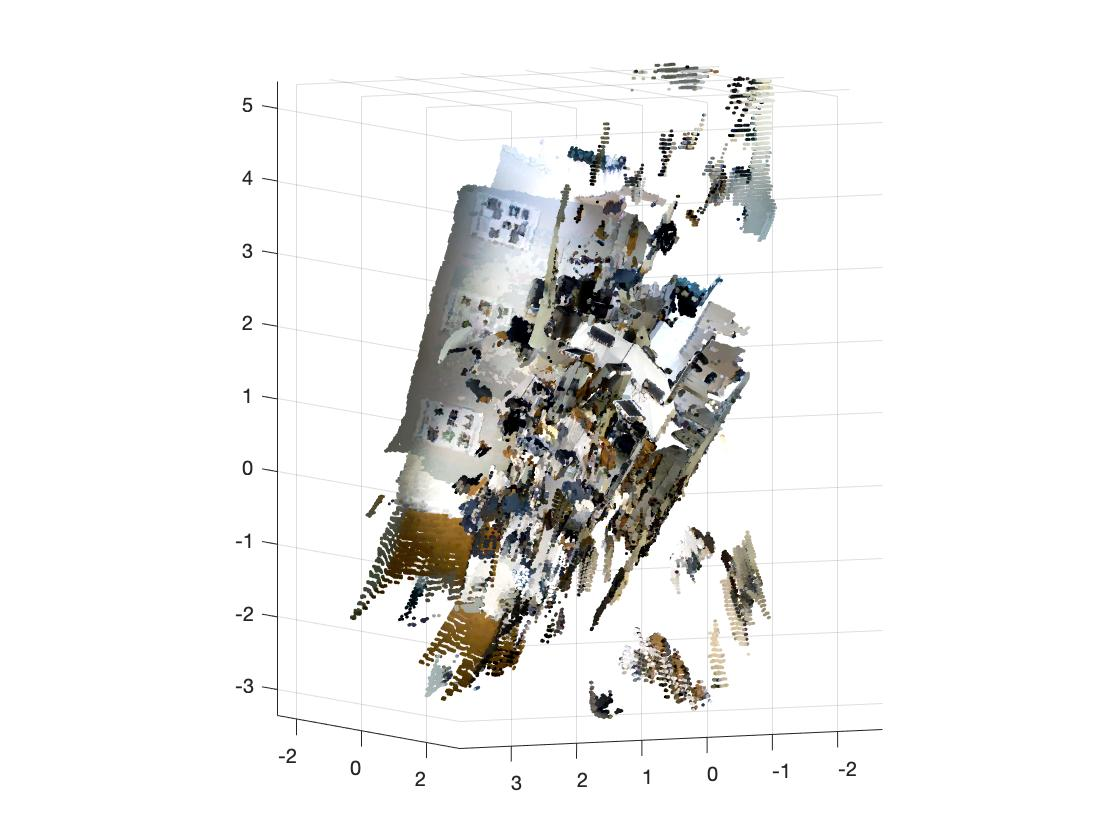
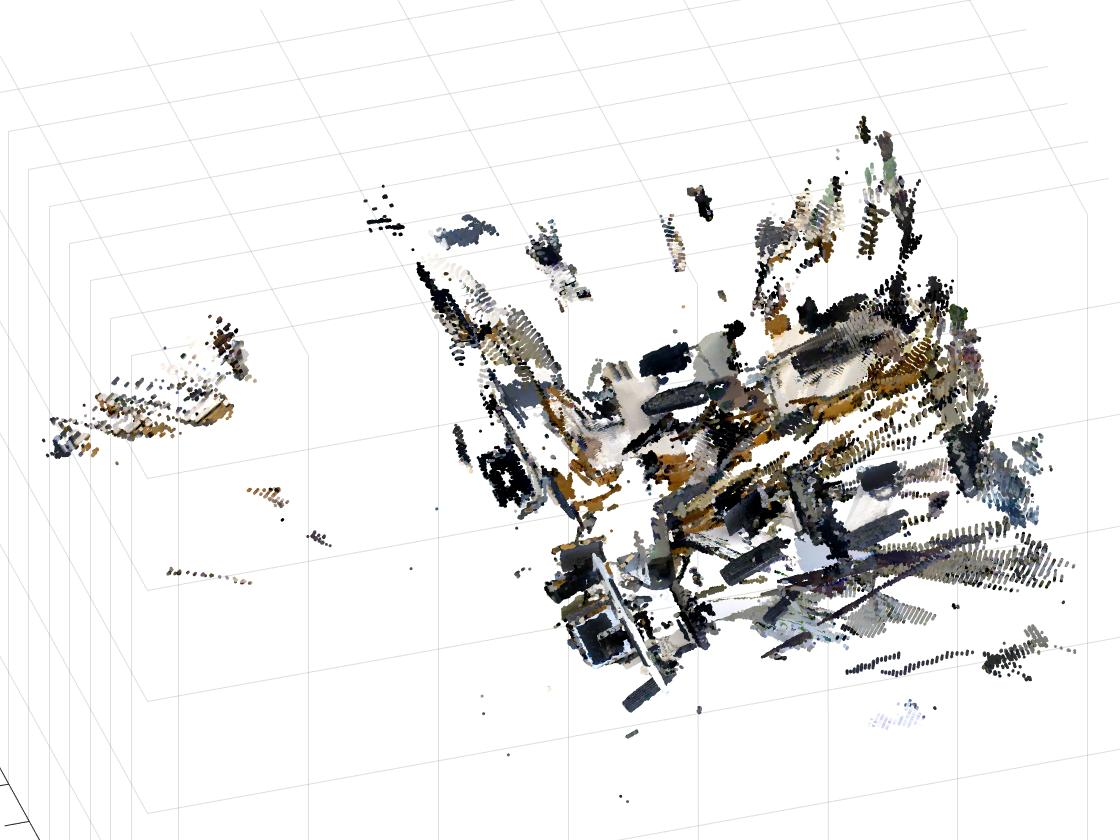
Latest update

diff --git a/Code/proj2_22dez.m b/Code/proj2_22dez.m
@@ -4,19 +4,23 @@ run('/Users/goncalopereira/Documents/MATLAB/vlfeat-0.9.21/toolbox/vl_setup')
 
 cam_params = load('cam_params.mat');
 
-%leimgs;
+imglistrgb = {'Datasets/room1/rgb_0000.jpg','Datasets/room1/rgb_0001.jpg','Datasets/room1/rgb_0002.jpg','Datasets/room1/rgb_0003.jpg','Datasets/room1/rgb_0004.jpg','Datasets/room1/rgb_0005.jpg','Datasets/room1/rgb_0006.jpg'};
+imglistdepth = {'Datasets/room1/depth_0000.mat','Datasets/room1/depth_0001.mat','Datasets/room1/depth_0002.mat','Datasets/room1/depth_0003.mat','Datasets/room1/depth_0004.mat','Datasets/room1/depth_0005.mat','Datasets/room1/depth_0006.mat'};
+%imglistrgb = {'Datasets/labpiv/rgb_image_1.png','Datasets/labpiv/rgb_image_2.png','Datasets/labpiv/rgb_image_3.png','Datasets/labpiv/rgb_image_4.png','Datasets/labpiv/rgb_image_5.png','Datasets/labpiv/rgb_image_6.png', ...
+    %           'Datasets/labpiv/rgb_image_7.png','Datasets/labpiv/rgb_image_8.png','Datasets/labpiv/rgb_image_9.png','Datasets/labpiv/rgb_image_10.png','Datasets/labpiv/rgb_image_11.png','Datasets/labpiv/rgb_image_12.png', ...
+     %          'Datasets/labpiv/rgb_image_12.png','Datasets/labpiv/rgb_image_13.png','Datasets/labpiv/rgb_image_14.png','Datasets/labpiv/rgb_image_15.png','Datasets/labpiv/rgb_image_16.png','Datasets/labpiv/rgb_image_17.png', ...
+     %         'Datasets/labpiv/rgb_image_18.png','Datasets/labpiv/rgb_image_19.png','Datasets/labpiv/rgb_image_20.png','Datasets/labpiv/rgb_image_21.png','Datasets/labpiv/rgb_image_22.png','Datasets/labpiv/rgb_image_23.png'};
 
+%imglistdepth = {'Datasets/labpiv/depth_1.mat','Datasets/labpiv/depth_2.mat','Datasets/labpiv/depth_3.mat','Datasets/labpiv/depth_4.mat','Datasets/labpiv/depth_5.mat','Datasets/labpiv/depth_6.mat', ...
+         %      'Datasets/labpiv/depth_7.mat','Datasets/labpiv/depth_8.mat','Datasets/labpiv/depth_9.mat','Datasets/labpiv/depth_10.mat','Datasets/labpiv/depth_11.mat','Datasets/labpiv/depth_12.mat', ...
+           %    'Datasets/labpiv/depth_12.mat','Datasets/labpiv/depth_13.mat','Datasets/labpiv/depth_14.mat','Datasets/labpiv/depth_15.mat','Datasets/labpiv/depth_16.mat','Datasets/labpiv/depth_17.mat', ...
+          %     'Datasets/labpiv/depth_18.mat','Datasets/labpiv/depth_19.mat','Datasets/labpiv/depth_20.mat','Datasets/labpiv/depth_21.mat','Datasets/labpiv/depth_22.mat','Datasets/labpiv/depth_23.mat'};
 
-imglistrgb = {'Datasets/labpiv/rgb_image_1.png','Datasets/labpiv/rgb_image_2.png','Datasets/labpiv/rgb_image_3.png','Datasets/labpiv/rgb_image_4.png','Datasets/labpiv/rgb_image_5.png','Datasets/labpiv/rgb_image_6.png', ...
-              'Datasets/labpiv/rgb_image_7.png','Datasets/labpiv/rgb_image_8.png','Datasets/labpiv/rgb_image_9.png','Datasets/labpiv/rgb_image_10.png','Datasets/labpiv/rgb_image_11.png','Datasets/labpiv/rgb_image_12.png', ...
-              'Datasets/labpiv/rgb_image_12.png','Datasets/labpiv/rgb_image_13.png','Datasets/labpiv/rgb_image_14.png','Datasets/labpiv/rgb_image_15.png','Datasets/labpiv/rgb_image_16.png','Datasets/labpiv/rgb_image_17.png', ...
-              'Datasets/labpiv/rgb_image_18.png','Datasets/labpiv/rgb_image_19.png','Datasets/labpiv/rgb_image_20.png','Datasets/labpiv/rgb_image_21.png','Datasets/labpiv/rgb_image_22.png','Datasets/labpiv/rgb_image_23.png'};
+%imglistrgb = {'Datasets/board1/rgb_0000.jpg','Datasets/board1/rgb_0001.jpg','Datasets/board1/rgb_0002.jpg','Datasets/board1/rgb_0003.jpg','Datasets/board1/rgb_0004.jpg','Datasets/board1/rgb_0005.jpg','Datasets/board1/rgb_0006.jpg','Datasets/board1/rgb_0007.jpg','Datasets/board1/rgb_0008.jpg','Datasets/board1/rgb_0009.jpg','Datasets/board1/rgb_0010.jpg','Datasets/board1/rgb_0011.jpg','Datasets/board1/rgb_0012.jpg','Datasets/board1/rgb_0013.jpg','Datasets/board1/rgb_0014.jpg'};
+%imglistdepth = {'Datasets/board1/depth_0000.mat','Datasets/board1/depth_0001.mat','Datasets/board1/depth_0002.mat','Datasets/board1/depth_0003.mat','Datasets/board1/depth_0004.mat','Datasets/board1/depth_0005.mat','Datasets/board1/depth_0006.mat','Datasets/board1/depth_0007.mat','Datasets/board1/depth_0008.mat','Datasets/board1/depth_0009.mat','Datasets/board1/depth_0010.mat','Datasets/board1/depth_0011.mat','Datasets/board1/depth_0012.mat','Datasets/board1/depth_0013.mat','Datasets/board1/depth_0014.mat'};
 
-imglistdepth = {'Datasets/labpiv/depth_1.mat','Datasets/labpiv/depth_2.mat','Datasets/labpiv/depth_3.mat','Datasets/labpiv/depth_4.mat','Datasets/labpiv/depth_5.mat','Datasets/labpiv/depth_6.mat', ...
-              'Datasets/labpiv/depth_7.mat','Datasets/labpiv/depth_8.mat','Datasets/labpiv/depth_9.mat','Datasets/labpiv/depth_10.mat','Datasets/labpiv/depth_11.mat','Datasets/labpiv/depth_12.mat', ...
-              'Datasets/labpiv/depth_12.mat','Datasets/labpiv/depth_13.mat','Datasets/labpiv/depth_14.mat','Datasets/labpiv/depth_15.mat','Datasets/labpiv/depth_16.mat','Datasets/labpiv/depth_17.mat', ...
-              'Datasets/labpiv/depth_18.mat','Datasets/labpiv/depth_19.mat','Datasets/labpiv/depth_20.mat','Datasets/labpiv/depth_21.mat','Datasets/labpiv/depth_22.mat','Datasets/labpiv/depth_23.mat'};
-
+ %imglistrgb = {'Datasets/table/rgb_0000.jpg','Datasets/table/rgb_0001.jpg','Datasets/table/rgb_0002.jpg','Datasets/table/rgb_0003.jpg','Datasets/table/rgb_0004.jpg','Datasets/table/rgb_0005.jpg','Datasets/table/rgb_0006.jpg','Datasets/table/rgb_0007.jpg'};
+ %imglistdepth = {'Datasets/table/depth_0000.mat','Datasets/table/depth_0001.mat','Datasets/table/depth_0002.mat','Datasets/table/depth_0003.mat','Datasets/table/depth_0004.mat','Datasets/table/depth_0005.mat','Datasets/table/depth_0006.mat','Datasets/table/depth_0007.mat'};
 
 num_images=length(imglistrgb);
 
@@ -81,7 +85,7 @@ for i=1:num_images-1
     [F_im2 d_im2]= vl_sift(single(rgb2gray(rgbd_im2)), 'PeakThresh', 0, 'edgethresh', 10);
     
     % Match sift features
-    match_threshold = 2.5; %2.5
+    match_threshold = 1.5;
     
     [matches, weights] = vl_ubcmatch(d_im1, d_im2, match_threshold);
     
@@ -119,7 +123,7 @@ for i=1:num_images-1
     xyz_2_features = xyz(:,4:6);
     
     % get the indices of the inliers in the set of features with ransac
-    e = 0.025; %0.025
+    e = 0.025;
     [inliers, error, no_inliers] = ransac_function(xyz_1_features, xyz_2_features, e);
     
     while no_inliers == 1
@@ -182,7 +186,7 @@ for i=1:num_images-1
     error_icp = sqrt(sum(dist_icp.^2,2));
     if sum(error_icp)<sum(error_svd)
         affines{i+1} = affine3d(M'*affines{i+1}.T);
-        %disp('lmaooo');
+        disp('lmaooo');
     end
     
 
@@ -201,42 +205,47 @@ for i=num_images:-1:1
 end
 
 %% Detect objects
-% k=1;
-% for i=1:num_images
-% 
-%    [labeledImage] = detect_objects(images_vec{i});
-%    
-%    num_components = max(labeledImage(:));
-%    for j=1:num_components
-%        
-%        xyz_idx = find(labeledImage==j);
-%               
-%        xyz = pc_vec{i}.Location(xyz_idx,:);
-%        
-%        valid_inds = find(xyz(:,1)~=0);
-%        
-%        xyz = xyz(valid_inds,:);
-%        if size(xyz,1)>50
-%            xyz = pointCloud(xyz);
-%            objects{k}.framenum = i;
-%            object_in_frame1 = pctransform(xyz, affines{i});
-%            
-%            pcshow(object_in_frame1);
-%            hold on;
-% 
-%            objects{k}.xyz = object_in_frame1.Location;
-%            k = k+1;
-%        end
-%    end
-% end
+k=1;
+for i=1:num_images
 
+   [labeledImage] = detect_objects(images_vec{i});
+   
+   num_components = max(labeledImage(:));
+   for j=1:num_components
+       
+       xyz_idx = find(labeledImage==j);
+              
+       xyz = pc_vec{i}.Location(xyz_idx,:);
+       
+       vectorized_img = reshape(images_vec{i},480*640,3);
+%         
+%        xyz_cloud = zeros(307200,3);
+%        xyz_cloud(xyz_idx,:)=xyz;
+       %valid_inds = find(xyz(:,1)~=0);
+       
+       %xyz = xyz(valid_inds,:);
+       vectorized_img = vectorized_img(xyz_idx,:);
+       if size(xyz,1)>50
+           xyz_cloud = pointCloud(xyz, 'Color', vectorized_img);
+           objects{k}.framenum = i;
+           object_in_frame1 = pctransform(xyz_cloud, affines{i});
+           
+           pcshow(object_in_frame1);
+           hold on;
 
-full_cloud = pc_vec{1};
-pc_vec_transformed{1} = pc_vec{1};
-for i=2:num_images
-    pc_1_hat = pctransform(pc_vec{i}, affines{i});
-    pc_vec_transformed{i} = pc_1_hat;
-    full_cloud = pcmerge(full_cloud, pc_1_hat, 0.005);
+           objects{k}.xyz = object_in_frame1.Location;
+           k = k+1;
+       end
+   end
 end
 
-pcshow(full_cloud);
+% %
+% full_cloud = pc_vec{1};
+% pc_vec_transformed{1} = pc_vec{1};
+% for i=2:num_images
+%     pc_1_hat = pctransform(pc_vec{i}, affines{i});
+%     pc_vec_transformed{i} = pc_1_hat;
+%     full_cloud = pcmerge(full_cloud, pc_1_hat, 0.005);
+% end
+% 
+% pcshow(full_cloud);

diff --git a/Code/leimgs.m b/Code/leimgs.m
@@ -1,8 +1,8 @@
-d1=dir('Datasets/board1/*.mat');
-d2=dir('Datasets/board1/*.jpg');
+d1=dir('Datasets/labpiv/*.mat');
+d2=dir('Datasets/labpiv/*.png');
 for i=1:length(d1),
-    imglistdepth{i} = ['Datasets/board1/' d1(i).name];
-    imglistrgb{i} = ['Datasets/board1/' d2(i).name];
+    imglistdepth{i} = ['Datasets/labpiv/' d1(i).name];
+    imglistrgb{i} = ['Datasets/labpiv/' d2(i).name];
 end
 
 clear d1 d2 i
